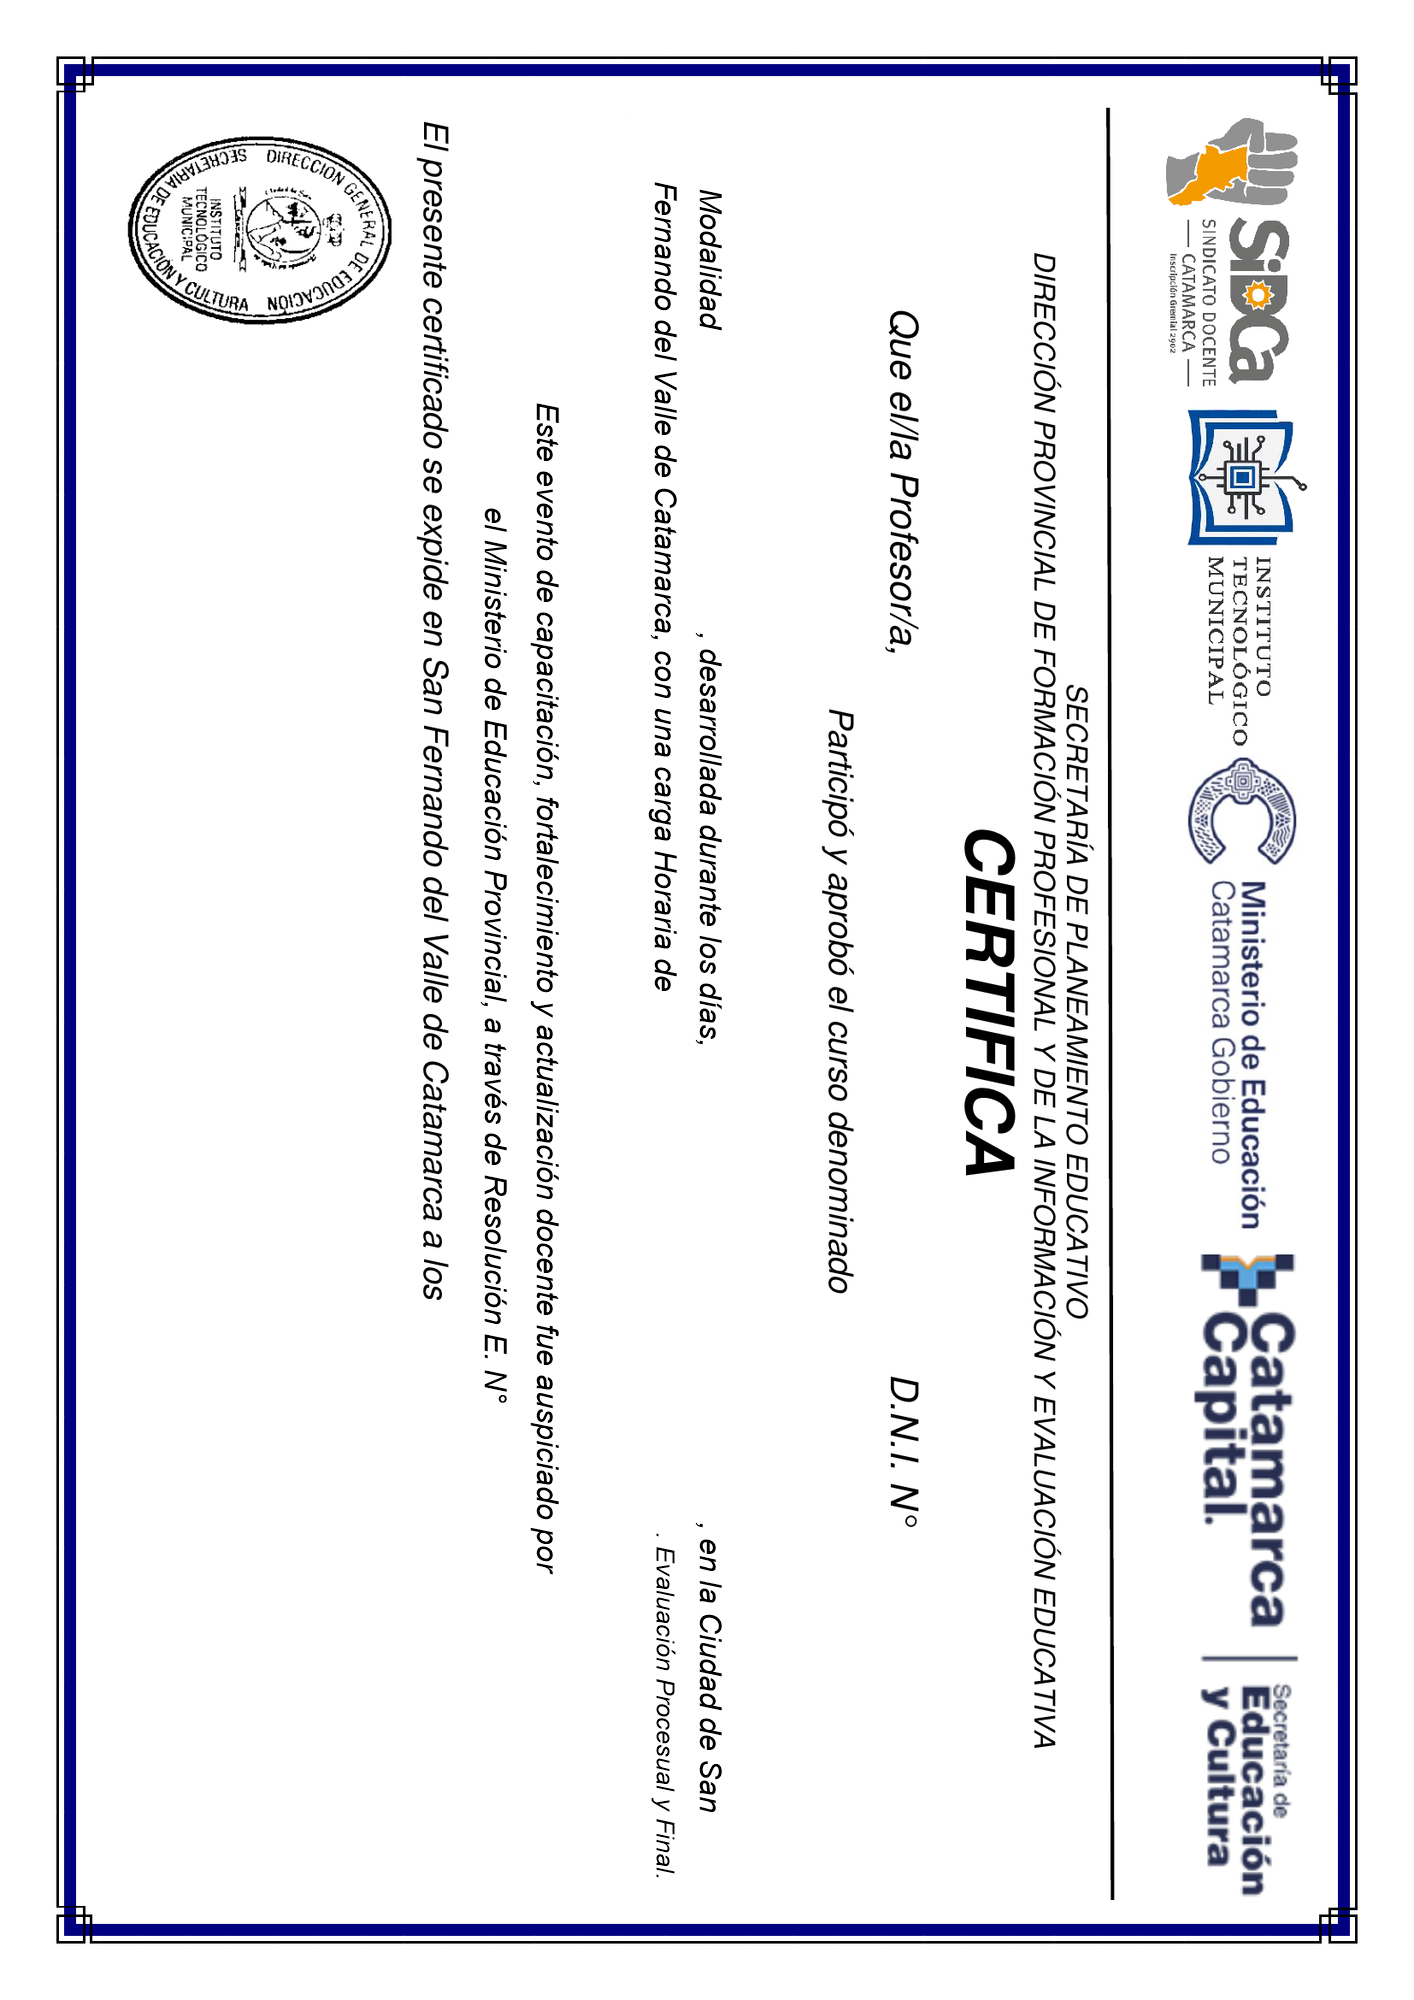
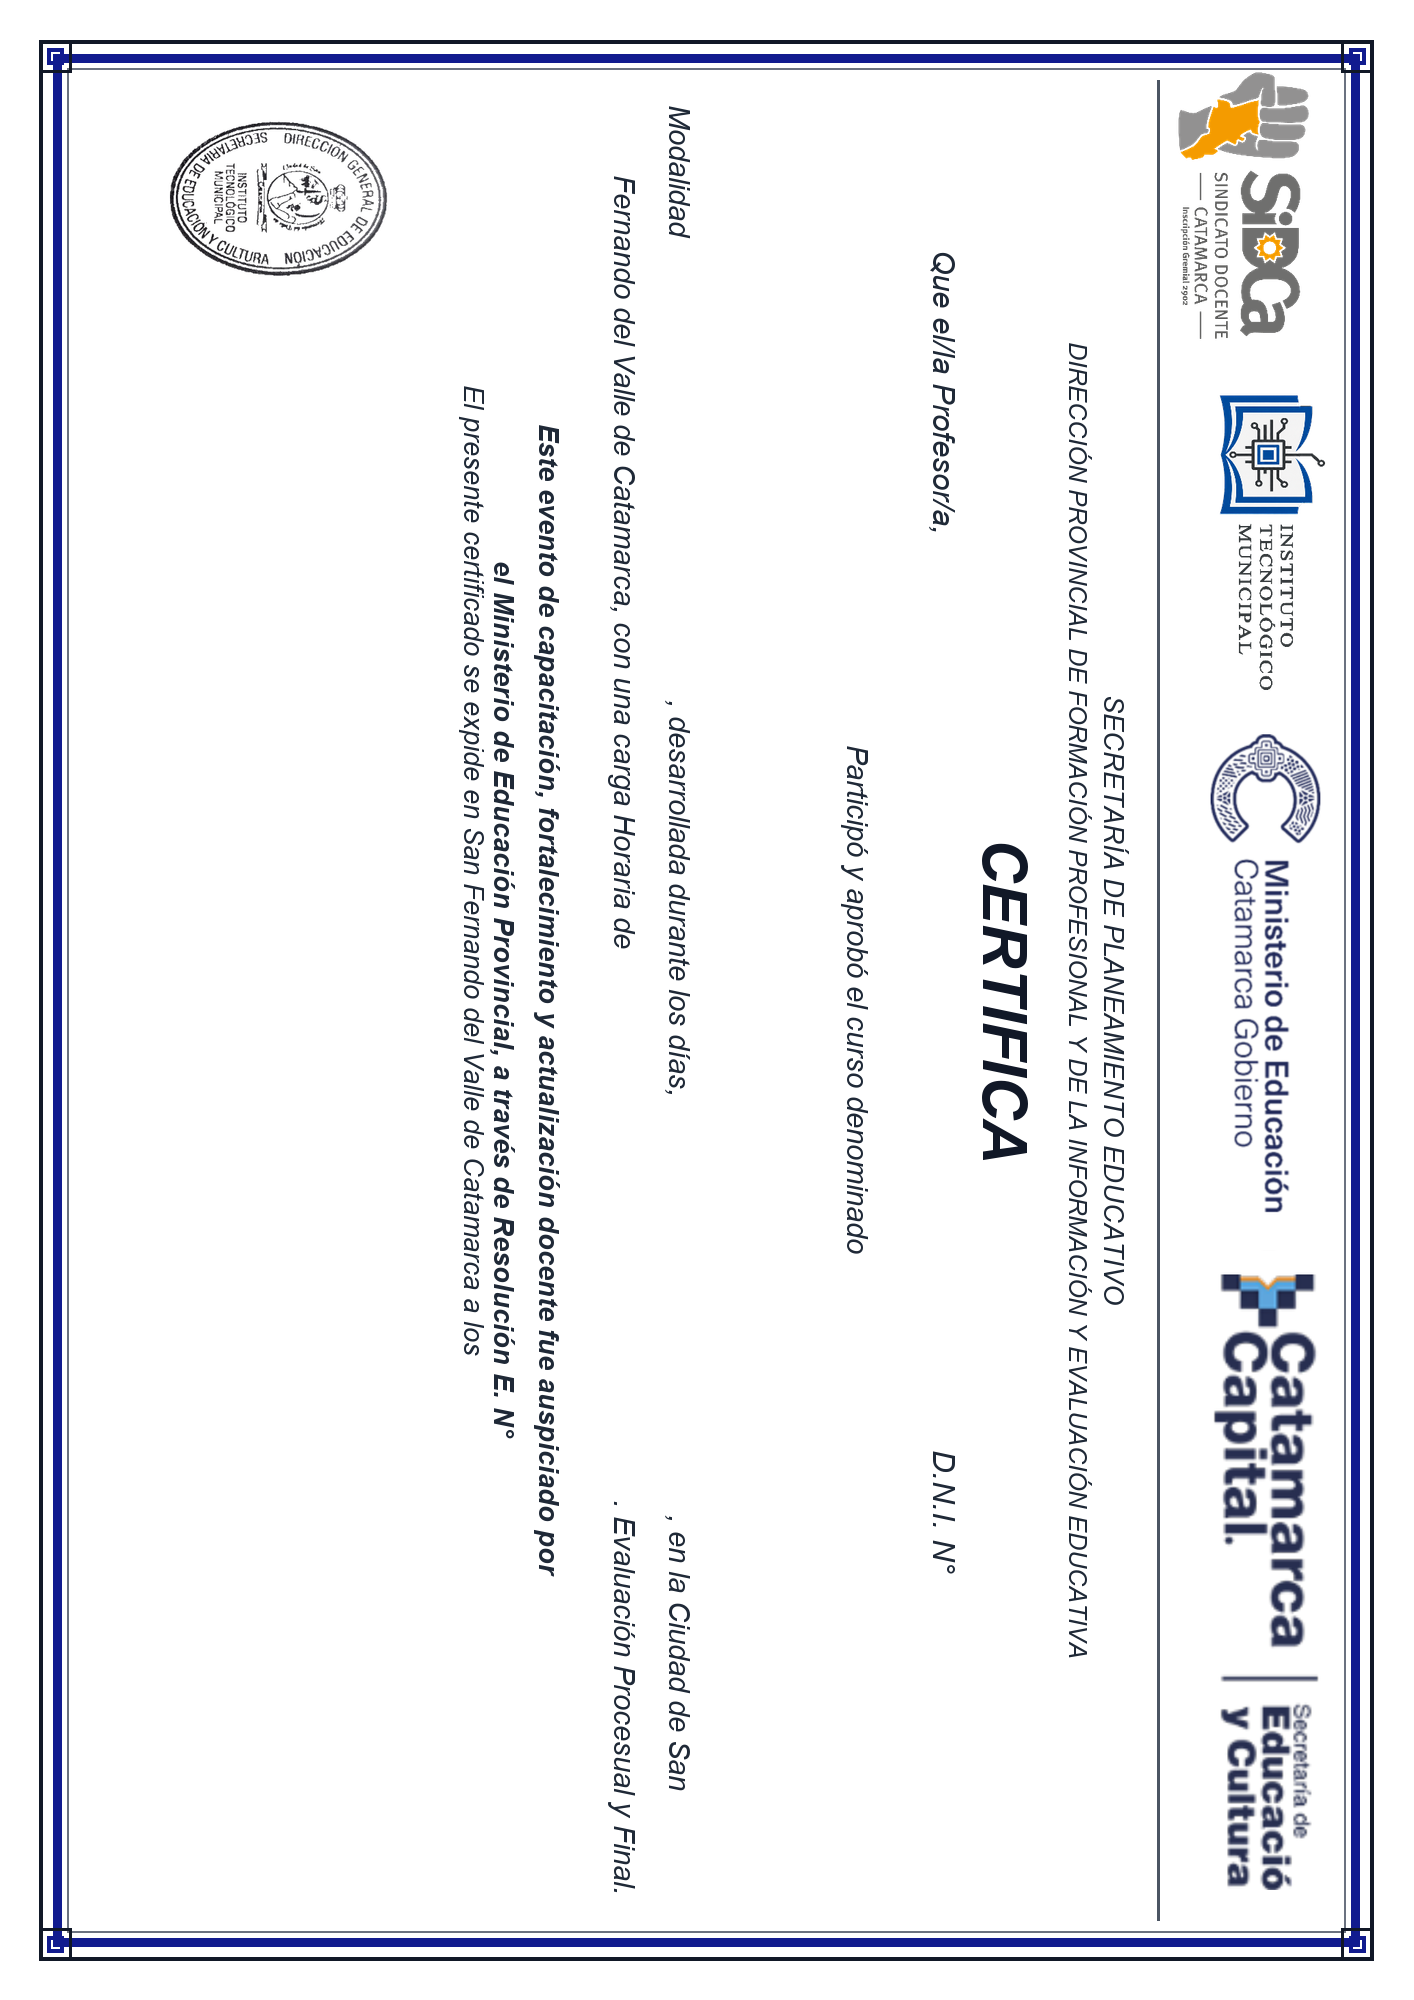
Ajusta diseño y distribución de certificados

diff --git a/src/pages/Admin/Certificados/components/CertificadoPreview.js b/src/pages/Admin/Certificados/components/CertificadoPreview.js
@@ -23,7 +23,7 @@
 // apaisado normal (2000×1414), de modo que los porcentajes se leen como uno
 // espera al mirar el certificado derecho.
 
-import React, { useLayoutEffect, useRef } from "react";
+import React, { useLayoutEffect, useRef, useState } from "react";
 import { Dialog } from "primereact/dialog";
 import QRCode from "react-qr-code";
 
@@ -225,10 +225,12 @@ const escalarUnaLinea = (texto, anchoCaja, maximo, minimo) =>
  * que se ve en pantalla.
  */
 const TITULO_CUERPO_MAX = 2.3; // cqw
-const TITULO_CUERPO_MIN = 0.9; // cqw
+const TITULO_CUERPO_MIN = 1.05; // cqw: piso legible para títulos largos
 const TITULO_INTERLINEA = 1.1;
-const TITULO_LINEAS_MAX = 2;
-const TITULO_ALTO_MAX = 4.2; // cqw — 84 px sobre un lienzo de 2000
+const TITULO_LINEAS_MAX = 3;
+const TITULO_ALTO_MAX = 8.2; // % de alto disponible para el bloque dinámico
+const TITULO_ALTO_MIN = 5.2; // conserva el diseño compacto para una línea
+const TITULO_DESPLAZAMIENTO_POR_LINEA = 1.8; // % de alto del certificado
 
 /**
  * Ajusta el cuerpo del título midiendo el elemento REAL.
@@ -245,11 +247,21 @@ const TITULO_ALTO_MAX = 4.2; // cqw — 84 px sobre un lienzo de 2000
 const useAjusteTitulo = (titulo, abierto) => {
   const boxRef = useRef(null);
   const textRef = useRef(null);
+  const [layout, setLayout] = useState({
+    lineas: 1,
+    altura: TITULO_ALTO_MIN,
+    desplazamiento: 0,
+  });
 
   useLayoutEffect(() => {
     const box = boxRef.current;
     const elemento = textRef.current;
     if (!box || !elemento || !abierto) return undefined;
+
+    // Cada certificado parte de la banda compacta. Así un título de dos o
+    // tres líneas del certificado anterior nunca se reutiliza durante la
+    // medición del siguiente.
+    setLayout({ lineas: 1, altura: TITULO_ALTO_MIN, desplazamiento: 0 });
 
     const ajustar = () => {
       // offsetParent es el lienzo del certificado: la caja es absoluta y él es
@@ -265,15 +277,17 @@ const useAjusteTitulo = (titulo, abierto) => {
       elemento.style.lineHeight = String(TITULO_INTERLINEA);
 
       const unidad = anchoContenedor / 100; // 1cqw en píxeles
-      const altoMaximo = box.clientHeight;
+      // La altura disponible no depende de la altura anterior de la caja: si
+      // la usamos como límite, un título largo queda atrapado en el tamaño
+      // aplicado al curso anterior. La banda admite hasta tres renglones y el
+      // contenido que sigue se desplaza con la cantidad real de líneas.
+      const altoMaximo = contenedor.clientHeight * (TITULO_ALTO_MAX / 100);
 
       // Los títulos largos necesitan comenzar con un cuerpo más prudente;
       // los cortos conservan el aumento visual. Después la medición real
       // sigue ajustando dentro de la banda disponible.
-      const largoTitulo = titulo.trim().length;
-      let cuerpo = largoTitulo > 55
-        ? Math.min(TITULO_CUERPO_MAX, 0.85)
-        : TITULO_CUERPO_MAX;
+      let cuerpo = TITULO_CUERPO_MAX;
+      let ultimaMedida = { alto: 0, lineas: 1 };
 
       // Se mide en píxeles reales para que el resultado sea exacto; el
       // ResizeObserver mantiene la proporción al cambiar el tamaño.
@@ -286,12 +300,39 @@ const useAjusteTitulo = (titulo, abierto) => {
           1,
           Math.round(alto / (cuerpo * unidad * TITULO_INTERLINEA))
         );
+        ultimaMedida = { alto, lineas };
 
-        if (alto <= altoMaximo + 1 && elemento.scrollWidth <= box.clientWidth + 1 && lineas <= TITULO_LINEAS_MAX) break;
+        if (
+          alto <= altoMaximo + 1 &&
+          elemento.scrollWidth <= box.clientWidth + 1 &&
+          lineas <= TITULO_LINEAS_MAX
+        ) {
+          break;
+        }
         if (cuerpo <= TITULO_CUERPO_MIN) break;
 
         cuerpo = Math.max(TITULO_CUERPO_MIN, cuerpo - 0.05);
       }
+
+      const altura = Math.min(
+        TITULO_ALTO_MAX,
+        Math.max(
+          TITULO_ALTO_MIN,
+          ultimaMedida.lineas * 2.1 + 1.4,
+          (ultimaMedida.alto / contenedor.clientHeight) * 100 + 1.2
+        )
+      );
+      const desplazamiento = Math.min(
+        3.8,
+        Math.max(0, (ultimaMedida.lineas - 1) * TITULO_DESPLAZAMIENTO_POR_LINEA)
+      );
+      setLayout((anterior) =>
+        anterior.lineas === ultimaMedida.lineas &&
+        anterior.altura === altura &&
+        anterior.desplazamiento === desplazamiento
+          ? anterior
+          : { lineas: ultimaMedida.lineas, altura, desplazamiento }
+      );
     };
 
     const frame = requestAnimationFrame(ajustar);
@@ -308,7 +349,7 @@ const useAjusteTitulo = (titulo, abierto) => {
     };
   }, [titulo, abierto]);
 
-  return { boxRef, textRef };
+  return { boxRef, textRef, layout };
 };
 
 const CertificadoPreview = ({
@@ -332,7 +373,11 @@ const CertificadoPreview = ({
   // Va ANTES del return temprano de abajo: los hooks tienen que ejecutarse en
   // el mismo orden en cada render, así que no pueden quedar detrás de una
   // salida condicional.
-  const { boxRef: tituloBoxRef, textRef: tituloTextoRef } = useAjusteTitulo(configuracion?.titulo || "—", abierto);
+  const {
+    boxRef: tituloBoxRef,
+    textRef: tituloTextoRef,
+    layout: tituloLayout,
+  } = useAjusteTitulo(configuracion?.titulo || "—", abierto);
 
   if (!participante || !configuracion) return null;
 
@@ -404,15 +449,11 @@ const fsDni = escalarUnaLinea(
 // Modalidad, carga horaria y fecha siguen compartiendo un tamaño
 // equilibrado según el espacio disponible.
 // DÍAS ya no participa de este cálculo porque tendrá el mismo tamaño que DNI.
-const cuerpoDatos = Math.min(
-  cuerpoUnaLinea(modalidad, 12.5, 2.1, 1.3),
-  cuerpoUnaLinea(cargaHoraria, 23.5, 2.1, 1.3),
-  cuerpoUnaLinea(fecha, 21, 2.1, 1.3)
-);
+const cuerpoModalidad = cuerpoUnaLinea(modalidad, 19, 2.35, 1.5);
+const cuerpoCarga = cuerpoUnaLinea(cargaHoraria, 23.5, 2.35, 1.5);
+const cuerpoFecha = cuerpoUnaLinea(fecha, 21, 2.1, 1.3);
 
-const fsDatos = `${cuerpoDatos.toFixed(2)}cqw`;
-
-const fsModalidad = fsDatos;
+const fsModalidad = `${cuerpoModalidad.toFixed(2)}cqw`;
 
 // El rango de días usa exactamente el mismo tamaño que el DNI.
 const fsDias = fsDni;
@@ -438,8 +479,8 @@ const anchoNombreNecesario =
 
 const escalaNombre = Math.min(1, ANCHO_CAJA_NOMBRE / anchoNombreNecesario);
 
-const fsCarga = fsDatos;
-const fsFecha = fsDatos;
+const fsCarga = `${cuerpoCarga.toFixed(2)}cqw`;
+const fsFecha = `${cuerpoFecha.toFixed(2)}cqw`;
 
 // Resolución: mismo principio que nombre y días. Conserva un cuerpo legible y,
 // si el texto no entra en su caja, se comprime en horizontal en lugar de
@@ -516,7 +557,11 @@ const escalaResolucion = Math.min(
           entre el encabezado y el pie, y el certificado se dimensiona contra
           él. No afecta nada del diseño interno. */}
       <div className={styles.previewViewport}>
-      <div className={`${styles.certificado} ${styles.previewOnly}`}>
+      <div
+        className={`${styles.certificado} ${styles.previewOnly} ${
+          institucionCertificado === "itm" ? styles.certificadoItm : ""
+        }`}
+      >
         <img
           src={fuentePlantilla}
           alt=""
@@ -524,7 +569,12 @@ const escalaResolucion = Math.min(
           className={styles.plantilla}
         />
 
-        <div className={styles.overlay}>
+        <div
+          className={styles.overlay}
+          style={{
+            "--titulo-desplazamiento": `${tituloLayout.desplazamiento}%`,
+          }}
+        >
           {/* Línea "Que el/la Profesor/a … , D.N.I Nº …" */}
           <div
             className={`${styles.caja} ${styles.nombreBox}`}
@@ -555,6 +605,9 @@ const escalaResolucion = Math.min(
             key={`${participante?.usuarioDocId || "participante"}-${titulo}`}
             ref={tituloBoxRef}
             className={styles.tituloBox}
+            style={{
+              "--titulo-alto": `${tituloLayout.altura}%`,
+            }}
           >
             <div ref={tituloTextoRef} className={styles.tituloTexto}>{titulo}</div>
           </div>

diff --git a/src/pages/Admin/Certificados/components/CertificadoPreview.module.css b/src/pages/Admin/Certificados/components/CertificadoPreview.module.css
@@ -240,7 +240,7 @@
    span interno se comprime en horizontal (ver .nombreTexto) en lugar de
    recortarse o bajar de cuerpo. Por eso no lleva elipsis. */
 .nombreBox {
-  top: 36%;
+  top: 34%;
   left: 32%;
   width: 36.5%;
   text-align: center;
@@ -260,8 +260,8 @@
 
 /* Caja independiente: el DNI no se mueve aunque el nombre use dos líneas. */
 .dniBox {
-  top: 35.9%;
-  left: 78%;
+  top: 33%;
+  left: 80%;
   width: 15%;
   text-align: left;
 }
@@ -285,14 +285,14 @@
   top: 42.6%;
   left: 17%;
   width: 66%;
-  height: 6.0%;
+  height: var(--titulo-alto, 5.2%);
   display: flex;
   align-items: center;
   justify-content: center;
   text-align: center;
   line-height: 1.1;
   transform: none;
-  overflow: hidden;
+  overflow: visible;
   white-space: normal;
 }
 
@@ -308,16 +308,19 @@
   overflow-wrap: normal;
   line-height: 1.02;
   font-size: 80%;
-  max-height: 100%;
+  max-height: none;
   transform: none;
 }
 
 /* --- Línea: "Modalidad ⟨MOD⟩ , desarrollada durante los días, ⟨DÍAS⟩" - */
 
 .modalidadBox {
-  top: 49.7%;
-  left: 18%;
-  width: 12.5%;
+  /* La plantilla SIDCA reserva ahora una banda fija más baja para esta fila.
+     Así el título puede crecer hasta tres líneas sin que el fondo impreso
+     quede detrás del dato dinámico. */
+  top: 52.1%;
+  left: 3%;
+  width: 39%;
   text-align: center;
 }
 
@@ -329,13 +332,19 @@
  * horizontalmente (ver .diasTexto), de modo que la altura de letra siga
  * siendo la misma que la del DNI. */
 .diasBox {
-  top: 49.9%;
-  left: 51.8%;
-  width: 22%;
+  top: 51.8%;
+  left: 49.5%;
+  width: 18.5%;
   text-align: center;
   white-space: nowrap;
   overflow: visible;
   text-overflow: clip;
+}
+
+/* El rango de fechas del certificado ITM necesita un pequeño desplazamiento
+   horizontal. SIDCA conserva la geometría global de .diasBox. */
+.certificadoItm .diasBox {
+  left: 51.2%;
 }
 
 /* Compresión horizontal pura: no toca el font-size, así que la altura de
@@ -350,8 +359,8 @@
 /* --- Línea: "… con una carga Horaria de ⟨CARGA⟩  Con Evaluación Final." */
 
 .cargaHorariaBox {
-  top: 53%;
-  left: 52.5%;
+  top: 55.7%;
+  left: 47.5%;
   width: 23.5%;
   text-align: center;
 }
@@ -365,7 +374,7 @@
    el span interno (ver .resolucionTexto), no recortando.
    top, left y width quedan exactamente como estaban. */
 .resolucionBox {
-  top: 65.1%;
+  top: 64.3%;
   left: 72.6%;
   width: 15%;
   text-align: left;
@@ -389,8 +398,8 @@
    encima de la de la leyenda, y el dato se leía flotando sobre el renglón.
    A 69.5% la base se apoya sobre la línea de "…a los". */
 .fechaBox {
-  top: 69.3%;
-  left: 69.5%;
+  top: 66.5%;
+  left: 68.8%;
   width: 21%;
   text-align: left;
 }
